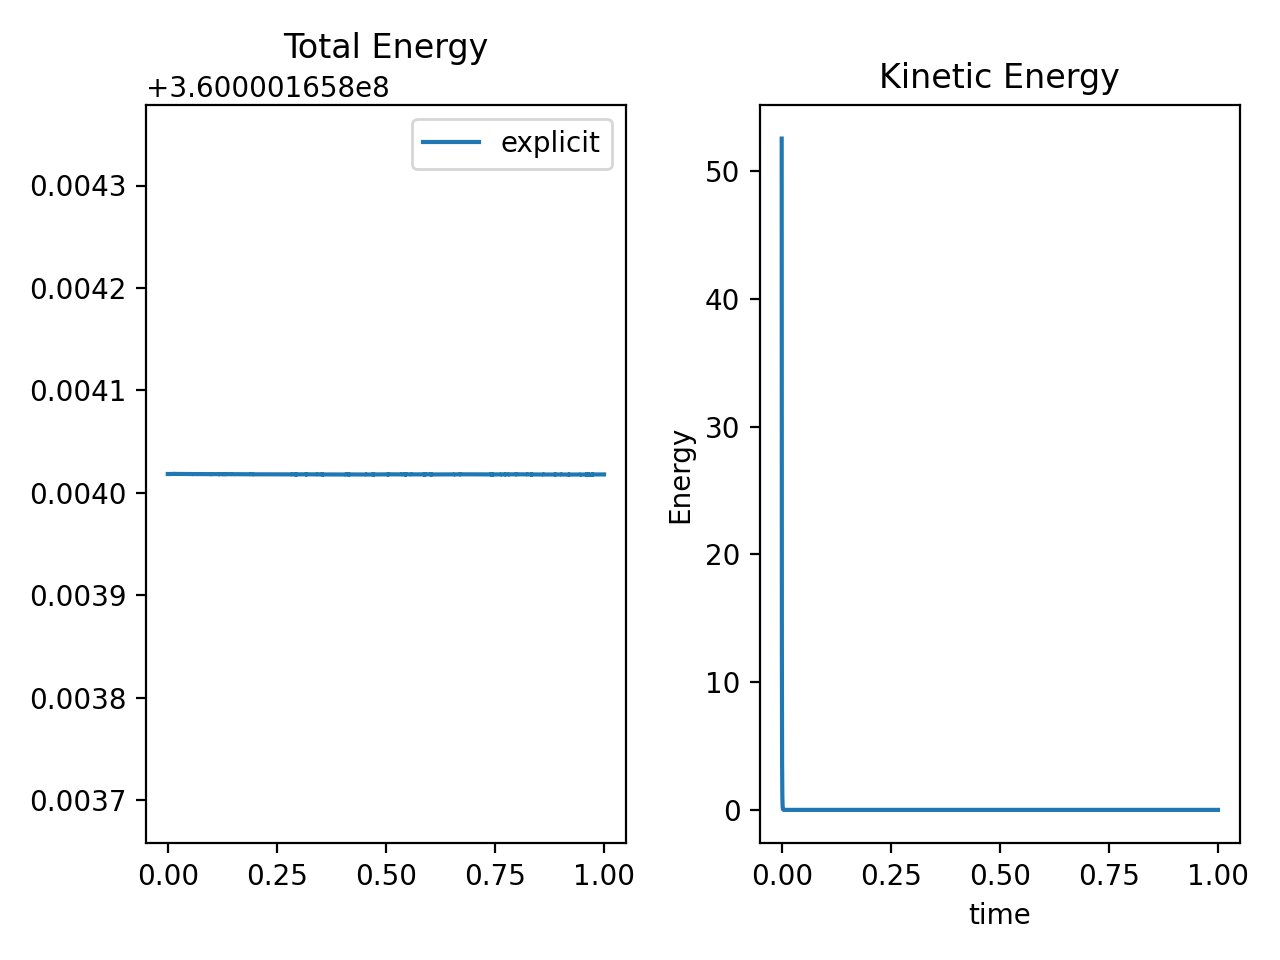
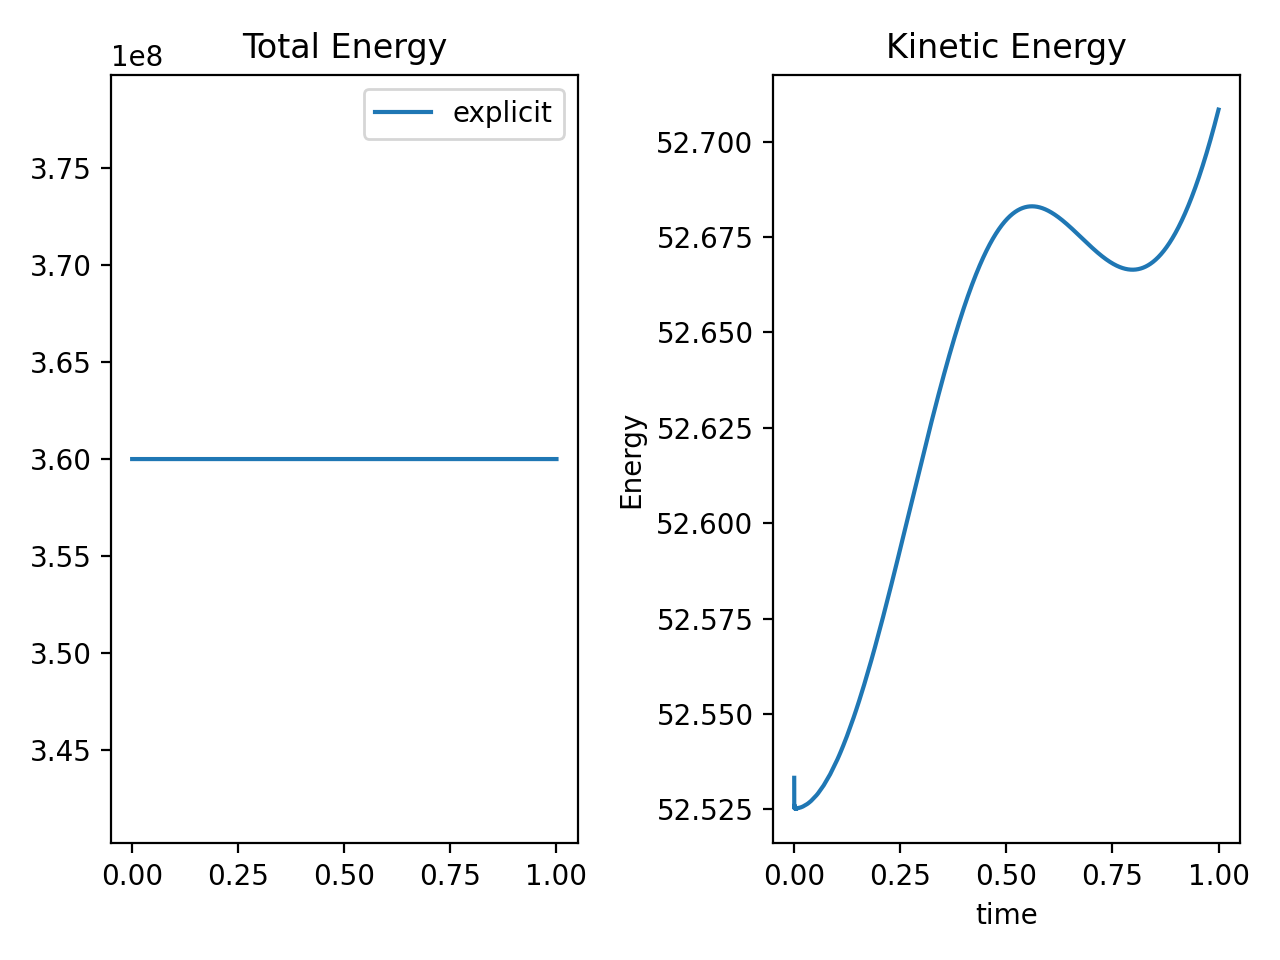
gresho plot generator

diff --git a/src/gresho_plots.py b/src/gresho_plots.py
@@ -1,0 +1,152 @@
+from PDE_Types import *
+from pathlib import Path
+from richtmeyer_two_step_scheme import Richtmeyer2step, Richtmeyer2stepImplicit
+from two_step_richtmeyer_util import Dimension, log, avg_x
+from intitial import gresho_vortex
+import matplotlib.pyplot as plt
+import numpy as np
+from matplotlib.lines import Line2D
+from mpl_toolkits.axes_grid1 import ImageGrid
+import matplotlib as mpl
+mpl.rc('image', cmap='magma')
+
+plt.rcParams['text.usetex'] = True
+# cycler = plt.cycler(color=plt.cm.tab20c.colors)
+colors = ["firebrick", "darkviolet", "teal", "darkkhaki"]
+cycler = plt.cycler(color=colors) + plt.cycler(lw=[1, 0.8, 0.6, 0.3]) + plt.cycler(markersize=[6, 3, 2, 1])
+plt.rc('axes', prop_cycle=plt.cycler(linestyle=["solid", "dotted", "dashed", "dashdot"]) * cycler)
+
+DIM = Dimension.twoD
+R = 40
+resolution = np.array([R] * DIM.value)
+Lx = 1
+Ly = Lx
+h = [Lx / resolution[0], Ly / resolution[1]]
+F = Euler(5. / 3, dim=DIM, c1=0.1, c2=0., hx=h[0], hy=h[1])
+
+domain = np.array([Lx, Ly])
+steppers = [Richtmeyer2step(F, domain, resolution, first_order=True),
+            Richtmeyer2step(F, domain, resolution),
+            Richtmeyer2stepImplicit(F, np.array([Lx, Ly]), resolution),
+            Richtmeyer2stepImplicit(F, np.array([Lx, Ly]), resolution),
+            Richtmeyer2stepImplicit(F, np.array([Lx, Ly]), resolution)]
+
+stepper_names = {0: "first",
+                 1: "expl",
+                 2: "impl",
+                 3: "impl_10",
+                 4: "impl_100"}
+stepper_names_fancy = {0: "Rusanov",
+                       1: "two step",
+                       2: r"implicit",
+                       3: r"implicit, $dt \cdot 10$",
+                       4: r"implicit, $dt \cdot 100$"}
+
+stepper_fact = [1, 1, 1, 10, 100]
+
+Ms = [np.power(10., -i) for i in range(1, 5)]
+nM = len(Ms)
+
+center = np.array([Lx / 2, Ly / 2])
+
+energies = []
+times = []
+
+
+def E_kin(stepper, dt):
+    global energies, times
+    v = stepper.grid_no_ghost
+    energies.append(np.sum(0.5 * np.sum(v[..., 1:DIM.value + 1] ** 2, axis=-1) / v[..., 0]))
+    times.append(dt)
+
+
+t = 1.
+generate = False
+if generate:
+    for i, stepper in enumerate(steppers):
+        if i != 1:
+            continue
+        for j, M in enumerate(Ms):
+            energies = []
+            times = []
+
+            print(f"stepper: {i}, M = {M}")
+
+            stepper.initial_cond(lambda x: gresho_vortex(x, center, F, M, qr=0.4 * np.pi * Lx / 1.))
+            stepper.step_for(0.01, fact=stepper_fact[i], callback=E_kin)
+            np.save(str(Path("traj", f"gresho_vortex_{stepper_names[i]}_1e{-(j+1)}_t1.npy")),
+                    F.mach(stepper.grid_no_ghost)[..., np.newaxis] / M)
+            stepper.step_for(t - 0.01, fact=stepper_fact[i], callback=E_kin)
+            np.save(str(Path("traj", f"gresho_vortex_{stepper_names[i]}_1e{-(j+1)}_t2.npy")),
+                    F.mach(stepper.grid_no_ghost)[..., np.newaxis] / M)
+
+            np.save(str(Path("energy", f"en_{stepper_names[i]}_1e{-(j+1)}.npy")), np.array(energies))
+            np.save(str(Path("energy", f"times_{stepper_names[i]}_1e{-(j+1)}.npy")), np.array(times))
+
+plot = True
+if plot:
+    # energies
+    fig_en, ax_en = plt.subplots()
+    for i in range(len(steppers)):
+        if i == 0:
+            continue
+        for j, M in enumerate(Ms):
+            energies = np.load(str(Path("energy", f"en_{stepper_names[i]}_1e{-(j+1)}.npy")))
+            times = np.load(str(Path("energy", f"times_{stepper_names[i]}_1e{-(j+1)}.npy")))
+            ax_en.plot(np.cumsum(times), energies / energies[0], label=f"{stepper_names[i]}")
+    ax_en.set_xlabel(r"$t$")
+    ax_en.set_ylabel(r"$E_\mathrm{kin}(t)/E_\mathrm{kin}(0)$")
+
+    # l = ax.legend([(p1, p2)], ['Two keys'], numpoints=1,
+    #               handler_map={tuple: HandlerTuple(ndivide=None)})
+
+    custom_labels = [Line2D([0], [0], color=colors[i], lw=1) for i in range(len(Ms))] + \
+                    [Line2D([0], [0], color="grey", lw=1, linestyle=i) for i in ["solid", "dotted", "dashed", "dashdot"]]
+
+    ax_en.legend(custom_labels, [fr"$M_\mathrm{{max}} = 10^{{{-i}}}$" for i in range(1, nM + 1)] + [*stepper_names_fancy.values()][1:], ncol=2)
+    fig_en.tight_layout()
+    plt.savefig(Path("ims", "energy_gresho_all.pdf"), dpi=200)
+
+    # Mach number
+    for i in range(len(steppers)):
+
+        fig = plt.figure(figsize=(3 * nM, 3))  # Notice the equal aspect ratio
+        # axs_mach = [fig.add_subplot(1, nM, i + 1) for i in range(nM)]
+
+        grid = ImageGrid(fig, 111,  # as in plt.subplot(111)
+                         nrows_ncols=(1, nM),
+                         axes_pad=0.,
+                         share_all=True,
+                         cbar_location="right",
+                         cbar_mode="single",
+                         cbar_size="7%",
+                         cbar_pad=0.,
+                         )
+
+        for j, ax in enumerate(grid):
+            data = np.load(str(Path("traj", f"gresho_vortex_{stepper_names[i]}_1e{-(j+1)}_t{1 if i == 0 else 2}.npy")))
+            # print(np.mean(data.ravel()))
+            im = ax.imshow(data.T[0], origin="lower", vmin=0, vmax=1, extent=(0, 1, 0, 1))
+
+            ax.set_yticks(np.linspace(0, 1, 6, endpoint=True))
+            ax.set_xticks(np.linspace(0, 1, 5, endpoint=False))
+            # ax.set_yticklabels([0., 0.2, 0.4, 0.6, 0.8, 1.0])
+            # ax.set_xticklabels([0., 0.2, 0.4, 0.6, 0.8])
+            ax.spines['bottom'].set_color('grey')
+            ax.spines['top'].set_color('grey')
+            ax.spines['right'].set_color('grey')
+            ax.spines['left'].set_color('grey')
+            ax.tick_params(color='grey', direction="in", top=True, right=True)
+            ax.set_ylabel(r"$y$")
+            ax.set_xlabel(r"$x$")
+            ax.text(0.04, 0.04, fr"$M_\mathrm{{max}} = 10^{{{-(j+1)}}}$", color="white", fontsize=13)
+
+        # Colorbar
+        cbar = ax.cax.colorbar(im, label=r"$M/M_\mathrm{max}$")
+        cbar.outline.set_edgecolor('grey')
+        cbar.ax.tick_params(color='gray', direction="in")
+        ax.cax.toggle_label(True)
+
+        plt.savefig(Path("ims", f"mach_{stepper_names[i]}.pdf"), dpi=200)
+
+

diff --git a/src/richtmeyer_two_step_scheme.py b/src/richtmeyer_two_step_scheme.py
@@ -78,22 +78,28 @@ class Solver:
             callback(self, 0)
         while time < T:
             dt = self.cfl() * fact
+            dt = min(dt, T - time)
             self.step(dt)
+
+            time += dt
 
             if callable(callback):
                 callback(self, dt)
 
-            time += min(dt, T - time)
             if log_step:
-                print(f"dt = {dt}, time = {time:.3f}/{T}")
+                print(f"dt = {dt}, time = {time:.3f}/{T}", end="\r")
+
+        if log_step:
+            print("")
 
 
 class Richtmeyer2step(Solver):
     def __init__(self, pde: PDE, domain: np.ndarray, resolutions: np.ndarray, bdc: Union[str, Callable] = "periodic",
-                 lerp=False, order1=False):
+                 lerp=False, order1=True, first_order=False):
         super().__init__(pde, domain, resolutions, bdc)
         self.lerp = lerp
         self.order1 = order1
+        self.fo = first_order
 
     def step(self, dt):
         assert isinstance(self.pde, Euler)
@@ -156,7 +162,8 @@ class Richtmeyer2step(Solver):
                 self.grid_no_ghost -= (1. - eta) * div_fluxes(self.pde(staggered)) + eta * rusanov()
             else:
                 self.grid_no_ghost -= (1. - eta) * div_fluxes(self.pde(staggered, False)) + eta * div_fluxes(self.pde(staggered, True, other=self.grid_no_ghost)) # TODO -= ???
-
+        elif self.fo:
+            self.grid_no_ghost -= rusanov()
         else:
             self.grid_no_ghost -= div_fluxes(self.pde(staggered, other=self.grid_no_ghost))
 

diff --git a/src/shock_tube.py b/src/shock_tube.py
@@ -20,8 +20,8 @@ F_novisc = Euler(5. / 3, dim=DIM, c1=1., c2=1., hx=h[0], hy=h[1], add_viscosity=
 
 stepper_vanilla = Richtmeyer2step(F_novisc, np.array([Lx, Ly]), resolution, lerp=False)
 stepper_visc = Richtmeyer2step(F, np.array([Lx, Ly]), resolution, lerp=False)
-stepper_lerp = Richtmeyer2step(F_novisc, np.array([Lx, Ly]), resolution, lerp=True, order1=True)
-stepper_lerp_visc = Richtmeyer2step(F, np.array([Lx, Ly]), resolution, lerp=True)
+stepper_lerp = Richtmeyer2step(F_novisc, np.array([Lx, Ly]), resolution, lerp=True)
+stepper_lerp_visc = Richtmeyer2step(F, np.array([Lx, Ly]), resolution, lerp=True, order1=False)
 
 tests = [(1.0, 0.75, 1.0, 0.125, 0.0, 0.1),  # rusanov works
          (1.0, -2.0, 0.4, 1.0, 2.0, 0.4),  # not even with visc

diff --git a/src/gresho_vortex.py b/src/gresho_vortex.py
@@ -10,7 +10,7 @@ import numpy as np
 log("definition of variables")
 
 DIM = Dimension.twoD
-resolution = np.array([80] * DIM.value)
+resolution = np.array([40] * DIM.value)
 Lx = 1
 Ly = Lx
 h = [Lx / resolution[0], Ly / resolution[1]]
@@ -38,11 +38,11 @@ def u_phi(grid: np.ndarray) -> np.ndarray:
     return u
 
 
-M = 0.1
+M = 0.001
 t = 1.
-stepper.initial_cond(lambda x: gresho_vortex(x, center, F, M))
+stepper.initial_cond(lambda x: gresho_vortex(x, center, F, M, qr=0.4*np.pi*Lx))
 
-plotter = Plotter(F, action="show", writeout=1, dim=stepper.dim, filename="gresho_vortex_eta_rel.mp4")
+plotter = Plotter(1, action="show", writeout=1000, dim=stepper.dim, filename="gresho_vortex_eta_rel.mp4")
 
 plot_visc = False
 

diff --git a/src/intitial.py b/src/intitial.py
@@ -34,7 +34,7 @@ def gresho_vortex(x: np.ndarray, center, F: Euler, Mmax=None, qr=1, primitives=F
 
     # background pressure
     if Mmax is not None:
-        p0 = rho / (gamma * Mmax ** 2) - 0.5
+        p0 = rho * qr**2 / (gamma * Mmax ** 2) - 0.5
     else:
         p0 = 5.
 

diff --git a/src/plotter.py b/src/plotter.py
@@ -15,7 +15,7 @@ from typing import Union
 import uuid
 
 import matplotlib as mpl
-mpl.rc('image', cmap='coolwarm')  # 'magma', 'bwr', 'inferno', 'viridis'
+mpl.rc('image', cmap='magma')  # 'magma', 'bwr', 'inferno', 'viridis', 'coolwarm'
 
 
 class Plotter:

diff --git a/todo.md b/todo.md
@@ -104,13 +104,15 @@
 - [ ] better filtering for eta
   - somehow right disc is not detected well ???
 - [ ] replace `\ref` by `\cref`
+  - `\cref` or `\Cref`?
 - [ ] check punctuation in equations
 - [ ] ask about references of what he showed
   - "exact" solution
 - [ ] fix two step or two-step
 - [ ] check timetense ie present vs past
 - [ ] double sided vs one sided?
-
+- [ ] remove all occurences of we
+- [ ] gresho mach increases...
 
 # To Discuss
 ## 06.04.23
